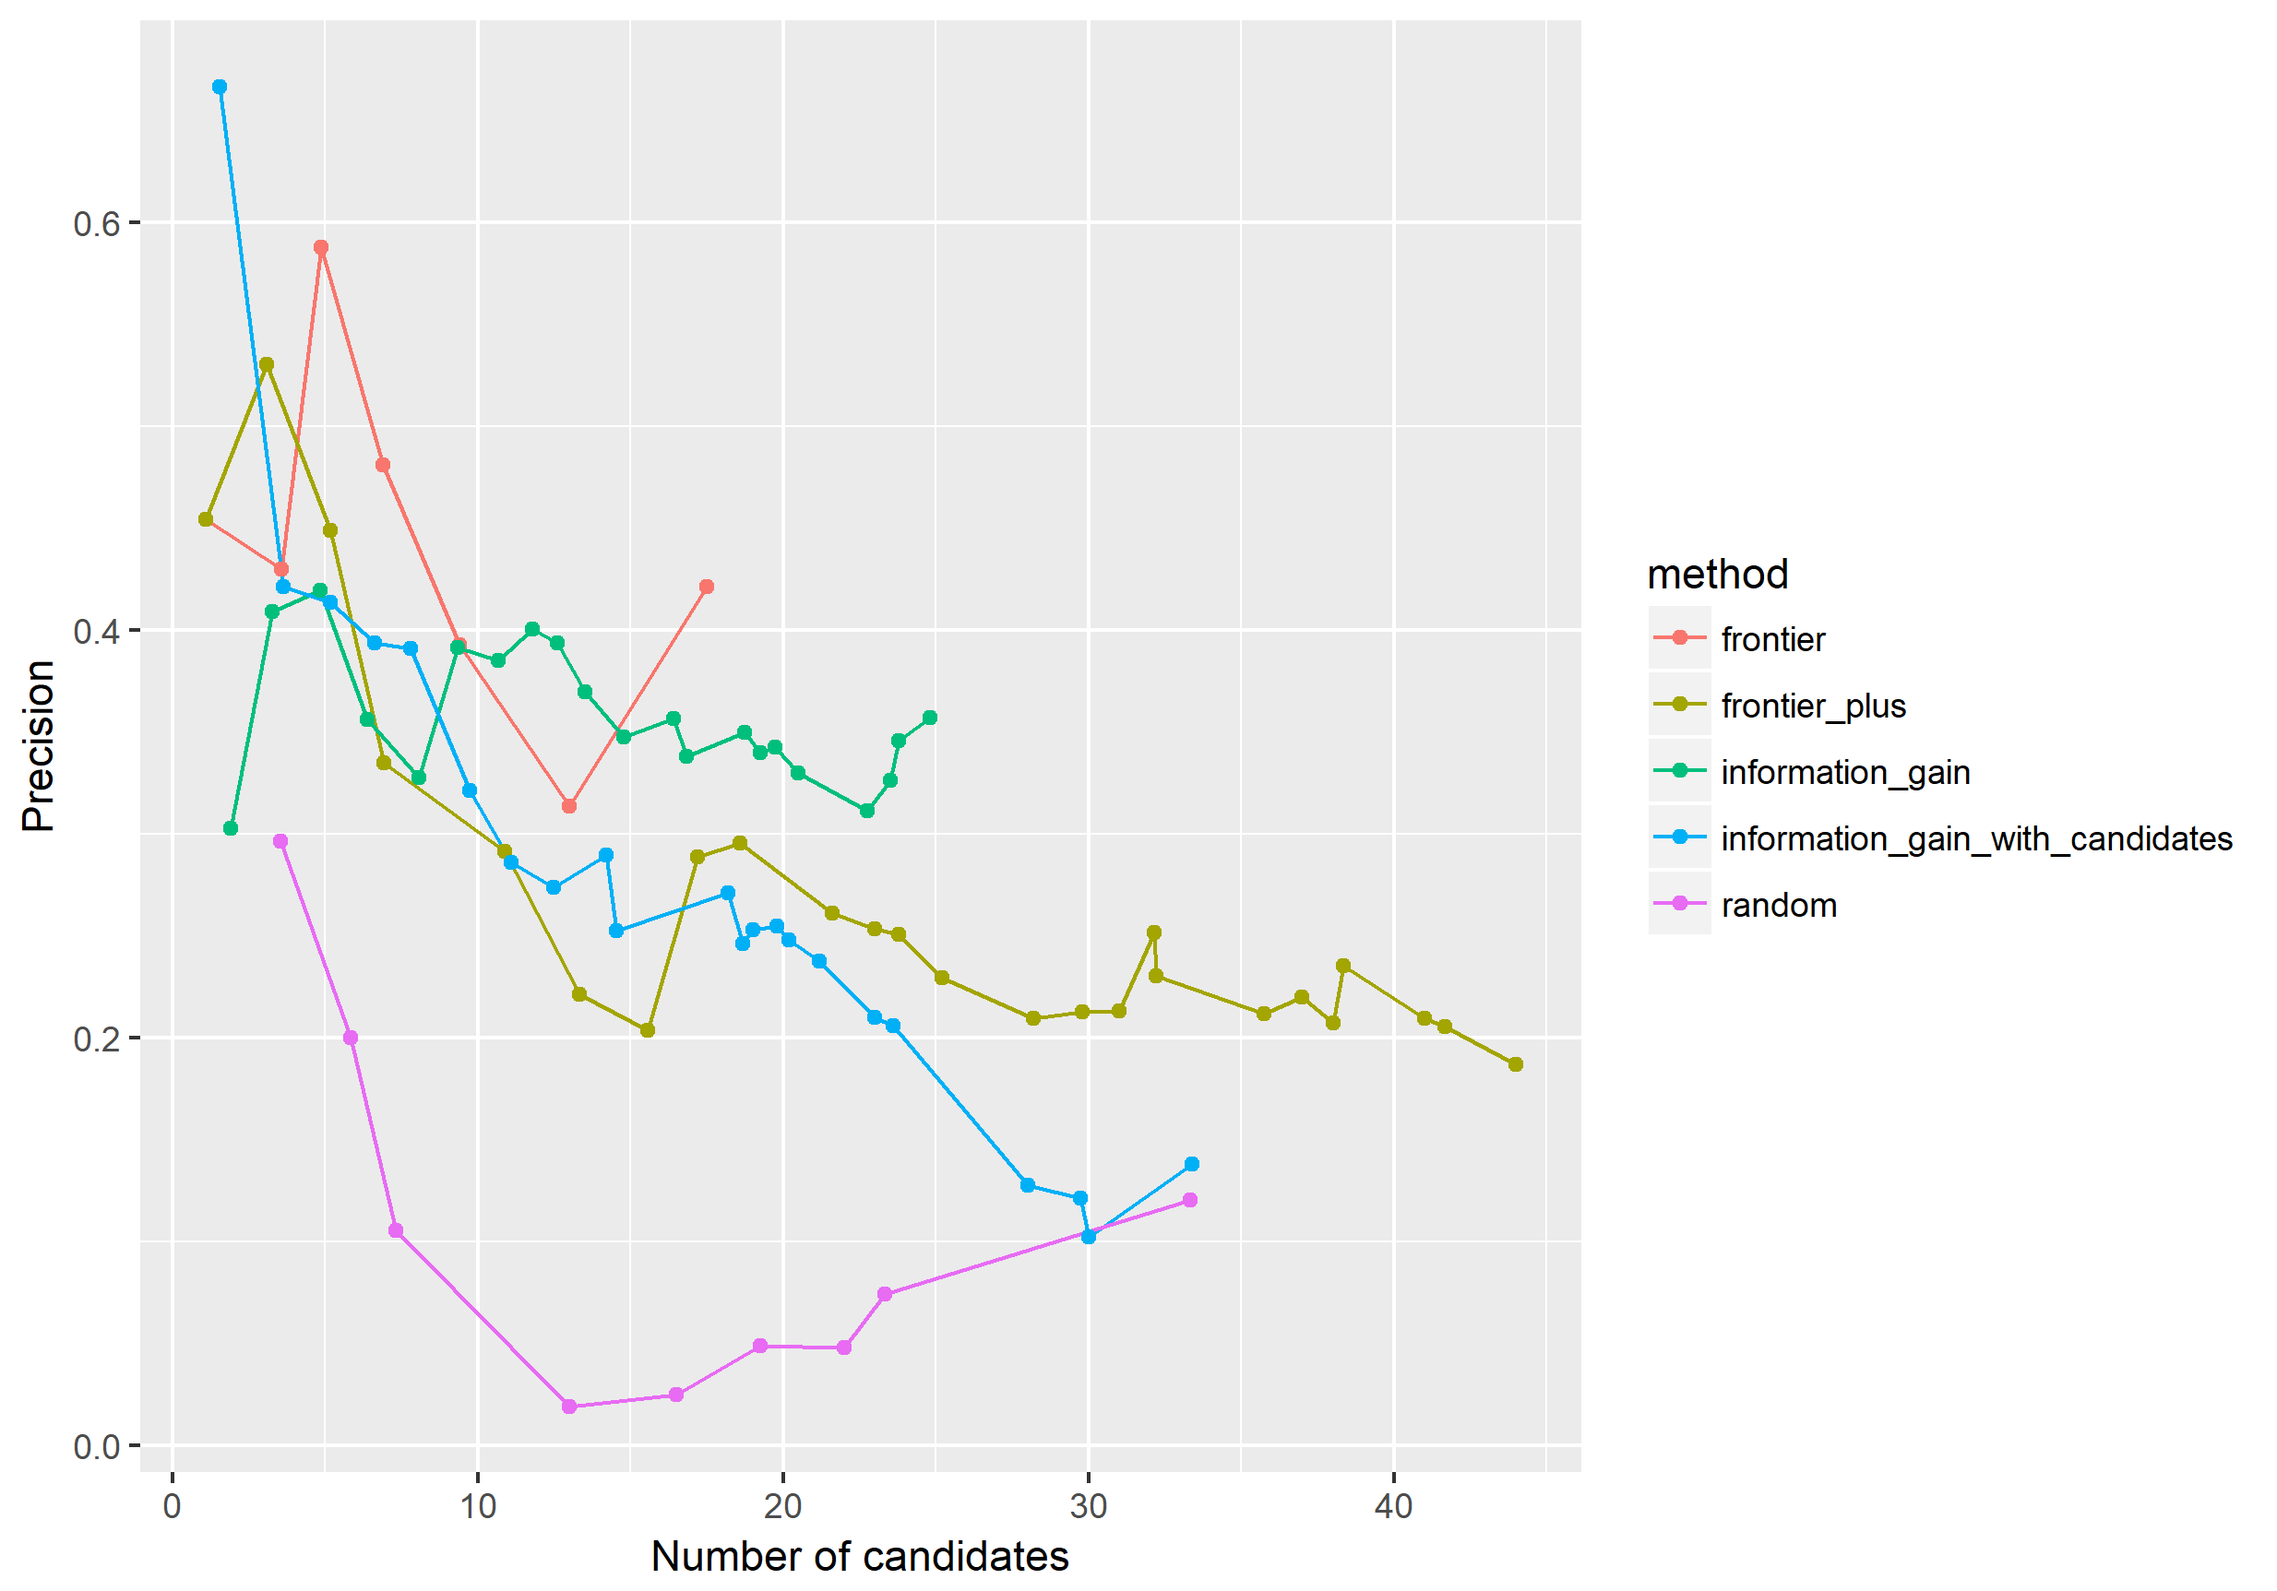
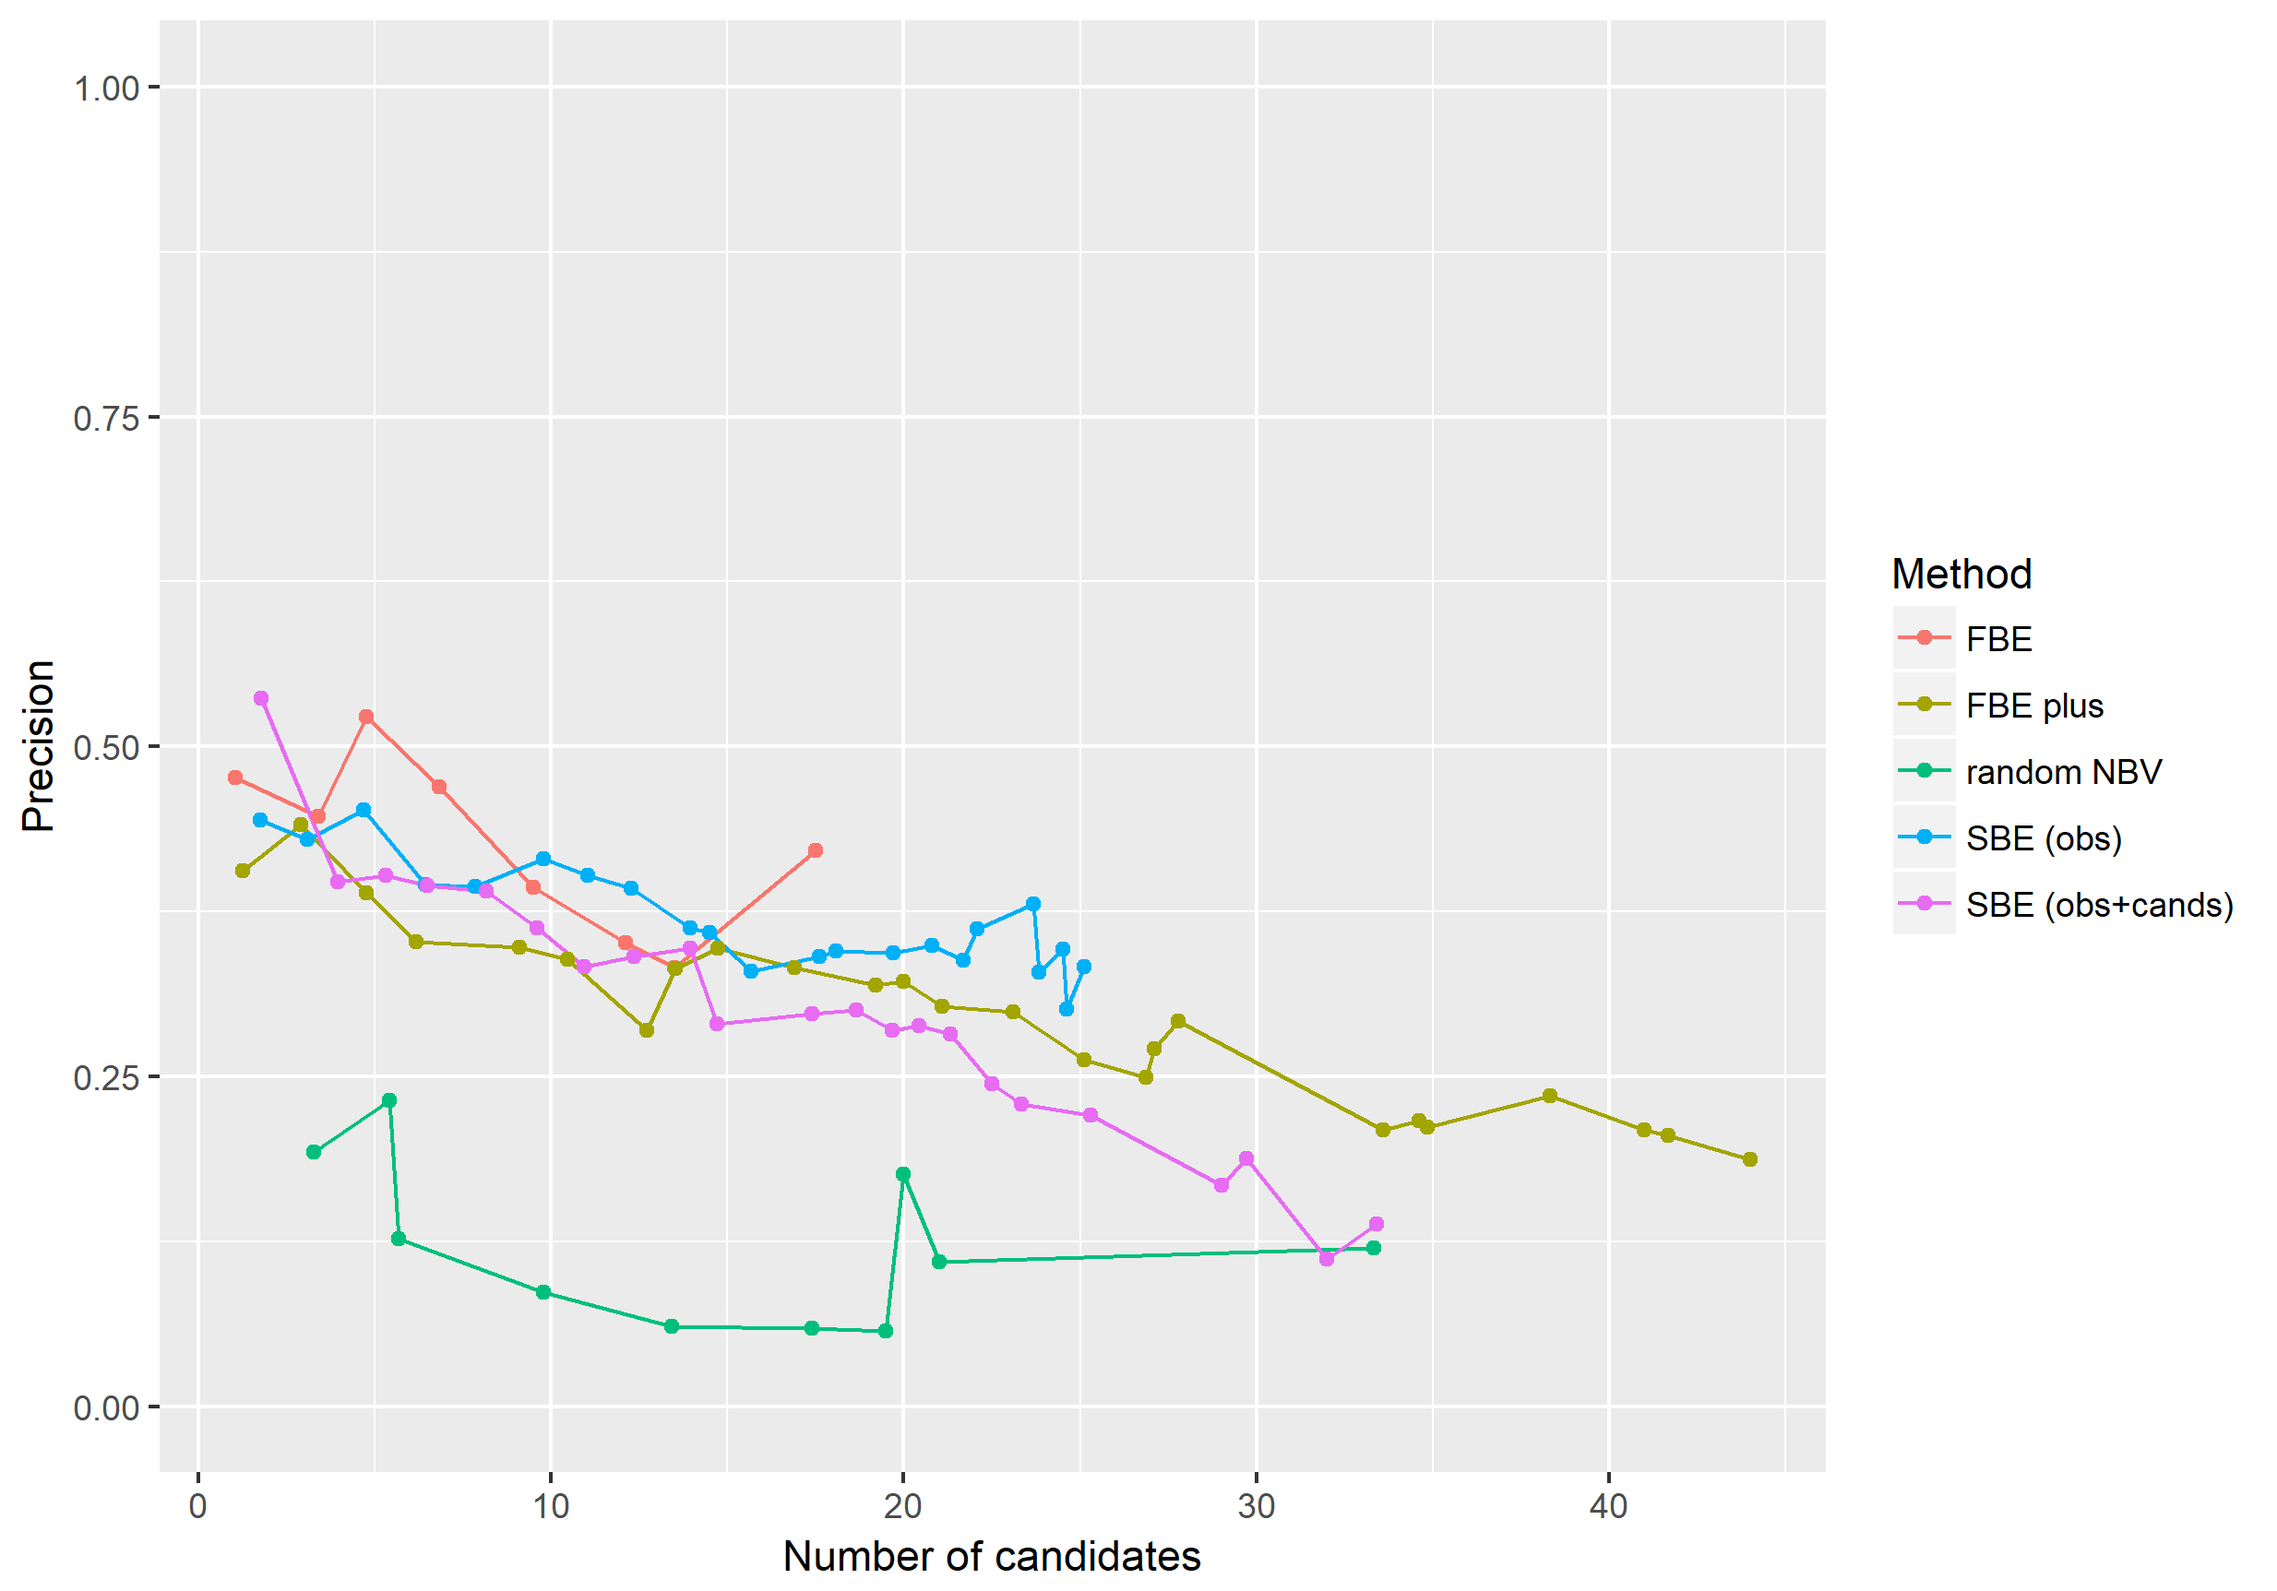
results v2

diff --git a/final_report/final_report.tex b/final_report/final_report.tex
@@ -66,7 +66,7 @@ Figure \ref{fig:frontier} presents how frontier-based exploration works.
 
 \begin{figure}[h!]
 	\begin{center}
-		\includegraphics[width=1\textwidth]{src/frontier_exploration.png}
+		\includegraphics[width=.85\textwidth]{src/frontier_exploration.png}
 		\caption{ Processing steps of frontier-based exploration \cite{yamauchi1997frontier}}
 		\label{fig:frontier}
 	\end{center}
@@ -130,7 +130,7 @@ The Kinect camera is directly providing a rectified version of the colour and de
 Also a point cloud build from the fused information of depth and colour image is directly provided as a ROS topic through the respective camera driver for simulation and real world.
 
 \subsection{Laserscan}
-To simulate a laser scanner we use the ros package \textit{pointcloud\_to\_laserscan} \footnote{\url{http://wiki.ros.org/pointcloud_to_laserscan}}.
+To simulate a laser scanner we use the ros package \texttt{pointcloud\_to\_laserscan} \footnote{\url{http://wiki.ros.org/pointcloud_to_laserscan}}.
 It receives the current point cloud from the RGB-D camera and samples the point cloud between a specified minimal and maximal height.
 The closest point for each vertical line is put out to form one horizontal line which is our simulated laser scan.
 
@@ -215,12 +215,12 @@ Random NBV is the baseline method which we can use to assess the improvement thr
 For this method all currently accessible free space cells of the map are considered as next view position.
 One of these cells is randomly selected and forms together with a random orientation the random NBV.
 
-\subsubsection{Frontier exploration}
-Our NBV method based on frontier exploration, which has been introduced in Section \ref{Theoretical_background:Frontier-based_exploration}, is performing frontier exploration as it has been implemented in the \textit{frontier\_exploration} ROS package \footnote{\url{http://wiki.ros.org/frontier_exploration}}.
+\subsubsection{Frontier-based exploration (\texttt{FBE})}
+Our NBV method based on frontier exploration, which has been introduced in Section \ref{Theoretical_background:Frontier-based_exploration}, is performing frontier exploration as it has been implemented in the \texttt{frontier\_exploration} ROS package \footnote{\url{http://wiki.ros.org/frontier_exploration}}.
 The next best view computed at a certain start position is here the centroid of the closest frontier with an orientation that corresponds to the continued line between the start position and the centroid of the closest frontier.
-One essential flaw of this NBV method is that it works only until the environment has been completely discovered. 
+One essential flaw of this NBV method is that it works only until the environment has been completely discovered.
 
-\subsubsection{Sampling-based exploration using obstacles}
+\subsubsection{Sampling-based exploration using obstacles (\texttt{SBE(Obs)})}
 For this NBV method we use sampling-based exploration as described in Section \ref{Theoretical_background:Sampling-based_exploration}.
 Here all accessible free space cells closer than $2$ meters and further than $20$ centimeters are considered as potential next best view position.
 For each of these cells a random orientation is selected and all cells are found which are closer than $3$ meters and can be seen when the robot is looking in the selected orientation at this particular cell. This considers obstacles, therefore cells behind obstacles do not count as visible. %This is done by computing the part of a $3$ meter radius circle with center point corresponding to the selected orientation and an total angle that corresponds to the camera opening angle. Subsequently, for each pixel of the edge 
@@ -245,24 +245,24 @@ Obstacle cells that have not been looked at decrease their value in the IoR map 
 For all future information gain scores obstacle cells with an IoR map value higher than $5$ provide no information gain.
 Therefore, consecutive viewpoints taking a look at the same obstacle group have decreased information gain score, so that at some point the robot should move away from the group.
 
-\subsubsection{Sampling-based exploration using obstacles and object proposals}
-This method is based on the sampling-based exploration using obstacles.
-The difference is that in addition to obstacles the current object proposals are considered as well for the information gain calculation.
-Each visible cell at which currently an object is assumed to be will increase the information gain score and similar as before unexplored cells in front of object proposals will award an additional bonus information gain score.
-The information gain $S_i$ for a cell $i$ with object proposal $j$ depends on the certainty $c_j$ into this proposal:
+\subsubsection{Sampling-based exploration using obstacles and object candidates (\texttt{SBE(Obs+Cands)})}
+This method is based on \texttt{SBE (obs)}.
+The difference is that in addition to obstacles the current object candidates are considered as well for the information gain calculation.
+Each visible cell at which currently an object is assumed to be will increase the information gain score and similar as before unexplored cells in front of object candidates will award an additional bonus information gain score.
+The information gain $S_i$ for a cell $i$ with object candidate $j$ depends on the certainty $c_j$ into this candidate:
 \begin{align*}
  S_i &= \mbox{inf\_object}\cdot 2^{-(c_j-1)}
 \end{align*}
-Where $\mbox{inf\_object}$ is the base value for object information gain. An object proposal with certainty $1$ will for example be awarded with $\mbox{inf\_object}$ information gain, a cell with proposal of certainty $2$, however, will only be awarded $\mbox{inf\_object}/2$.
-The idea is here that object proposals with low certainty are worth more to look at, to increase the certainty.
+Where $\mbox{inf\_object}$ is the base value for object information gain. An object candidate with certainty $1$ will for example be awarded with $\mbox{inf\_object}$ information gain, a cell with candidate of certainty $2$, however, will only be awarded $\mbox{inf\_object}/2$.
+The idea is here that object candidates with low certainty are worth more to look at, to increase the certainty.
 
-\subsubsection{Combination of Frontier and sampling-based exploration}
-This method combines frontier exploration and sampling-based exploration using obstacles.
+\subsubsection{Combination of frontier and sampling-based exploration (\texttt{FBE plus})}
+This method combines \texttt{FBE} and \texttt{SBE(obs)}.
 Until the whole room is explored the frontier exploration method is used after that the sampling-based exploration takes over. 
 The goal of this method is to overcome the limitation of frontier exploration, but exploit the positive behavior of frontier exploration to find a good sequence of views which allow to look at least once at all areas of the environment.
 
 \subsection{Navigation}
-For navigation we use the \textit{move\_base} ROS package \footnote{\url{http://wiki.ros.org/move_base}}.
+For navigation we use the \texttt{move\_base} ROS package \footnote{\url{http://wiki.ros.org/move_base}}.
 It requires the current robot position approximation, sensor transforms and sensor data and provides appropriate velocity commands to navigate the platform once a valid goal pose has been requested.
 
 \section{Analysis}
@@ -320,7 +320,7 @@ Besides which of the two environment to use and activated or deactivated cheat m
 
 \subsection{Results}
 In the following we present the results from our experiments.
-Each experiment setting was run at least 20 times.
+Each experiment setting was run 25 times.
 However, the system is crashing regularly. Most often because the robot thinks he is not able to move anymore.
 In particular the \texttt{random NBV} method leads to many situations in which the robot can not move. Therefore, the \texttt{random NBV} method reached at most 13 views, while others were able to take up to 25 view poses.
 
@@ -344,13 +344,11 @@ Here we take the results from our room with scattered objects. Recall and precis
 	\end{center}
 \end{figure}
 
-The best performing methods are \texttt{SBE (Obs)} and \texttt{FBE plus} which has the highest values for recall and precision.
+The best performing methods are \texttt{SBE(Obs)} and \texttt{FBE plus} which has the highest values for recall and precision.
 They can reach recall values up to $0.75$ and have precision values between $0.25$ and $0.38$.
 From the two graphs it becomes clear that all of the methods which somehow incorporate an information gain measure are more successful than the baseline method \texttt{random NBV}.
-The \texttt{SBE (Obs+Cands)} is performing worse than than \texttt{SBE (Obs)}, our current assumption is that this is, because only about a quarter of objects are correct, thereby the robot gets more distracted from false object assumptions as he gets drawn to correct ones.
-Variations between \texttt{FBE} and \texttt{FBE plus} and the beginning and between \texttt{FBE plus} and \texttt{SBE (Obs)} later occur through random fluctuations during the experiments.
-
-In Figures \ref{fig:recall_vs_nbv_count_settings} and \ref{fig:precision_vs_nbv_count_settings} a couple of different settings for the information gain parameters of our SBE methods are visualized in their effect on recall and precision.
+The \texttt{SBE(Obs+Cands)} is performing worse than than \texttt{SBE(Obs)}, our current assumption is that this is, because only about a quarter of objects are correct, thereby the robot gets more distracted from false object assumptions as he gets drawn to correct ones.
+Variations between \texttt{FBE} and \texttt{FBE plus} and the beginning and between \texttt{FBE plus} and \texttt{SBE(Obs)} later occur through random fluctuations during the experiments.
 
 \begin{figure}[h!]
 	\begin{center}
@@ -360,15 +358,18 @@ In Figures \ref{fig:recall_vs_nbv_count_settings} and \ref{fig:precision_vs_nbv_
 	\end{center}
 \end{figure}
 
-\begin{figure}[h!]
-	\begin{center}
-		\includegraphics[width=1\textwidth]{src/Plots/setting__precision_vs_nbv_count.png}
-		\caption{Precision values for different information gain parameter settings}
-		\label{fig:precision_vs_nbv_count_settings}
-	\end{center}
-\end{figure}
+In Figure \ref{fig:recall_vs_nbv_count_settings} different settings for the information gain parameters of our SBE methods are visualized in their effect on the recall. Precision is not strongly affected by the different settings.
+The best performing settings are f) and e). In both of these setting information gain is only provided for cells containing obstacles, in e) a bonus is given for unexplored cells in front of obstacles (e) corresponds to \texttt{SBE (obs)}).
+Setting a) is using the parameters from \texttt{SBE (obs+cands)} and b) is similar, but information gain through objects candidates is halved. c) is also related to a), but non of the bonuses for unexplored cells in front of obstacles or object candidates are given. These three settings perform similar, but much worse than the obstacle focused settings. This corresponds to the overall worse performing \texttt{SBE(Obs+Cands)} method.
+The worst performing setting is d) where information gain is solely provided for cells containing object candidates. This fits to our previous results since this is the only setting that is not considering obstacles for the information gain calculations.
 
-In Figure \ref{fig:nbv_count_vs_time} the average time required to perform a certain number of views can be seen. 
+%\begin{figure}[h!]
+%	\begin{center}
+%		\includegraphics[width=1\textwidth]{src/Plots/setting__precision_vs_nbv_count.png}
+%		\caption{Precision values for different information gain parameter settings}
+%		\label{fig:precision_vs_nbv_count_settings}
+%	\end{center}
+%\end{figure}
 
 \begin{figure}[h!]
 	\begin{center}
@@ -377,6 +378,9 @@ In Figure \ref{fig:nbv_count_vs_time} the average time required to perform a cer
 		\label{fig:nbv_count_vs_time}
 	\end{center}
 \end{figure}
+
+In Figure \ref{fig:nbv_count_vs_time} the average time required to perform a certain number of views can be seen. 
+Interestingly the \texttt{FBE} method is even faster than \texttt{random NBV}, this is because the random views can be far apart from each other, which leads Unsurprisingly, the \texttt{SBE} methods are the slowest solutions, because the computation of sophisticated information gain for many accessible cells is costly. In this graph the \texttt{FBE plus} method can show its advantage against the other \texttt{SBE} methods, because its  benefiting from the fast frontier exploration at the beginning.
 
 \section{Conclusion}
 \label{Conclusion}
